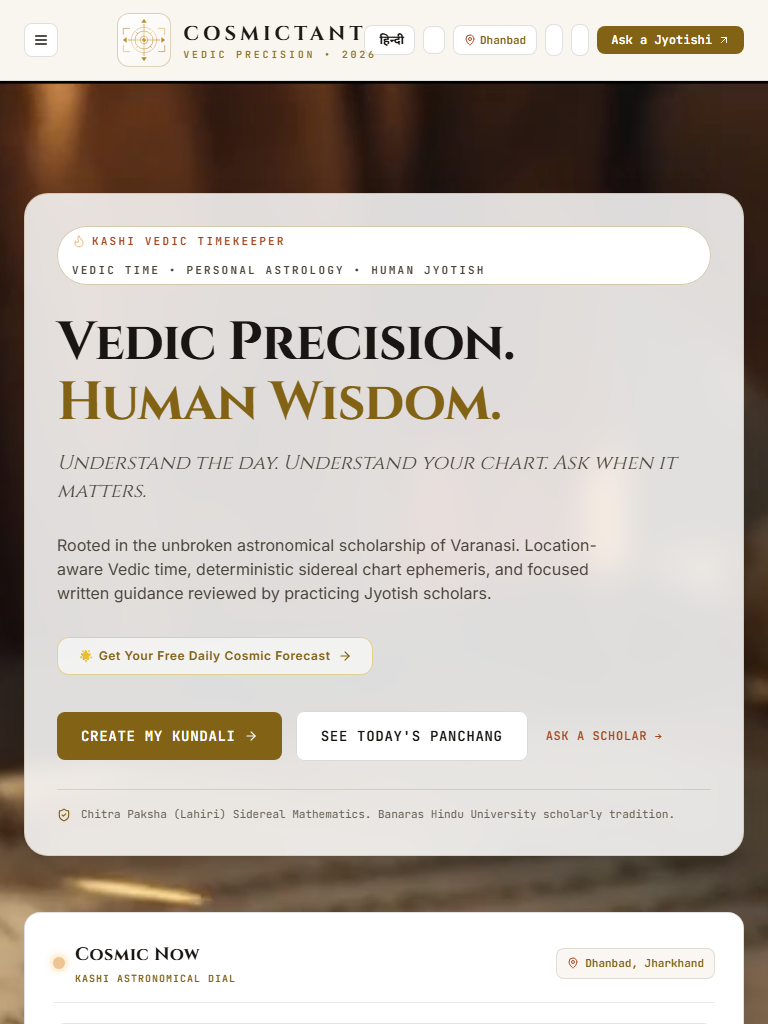
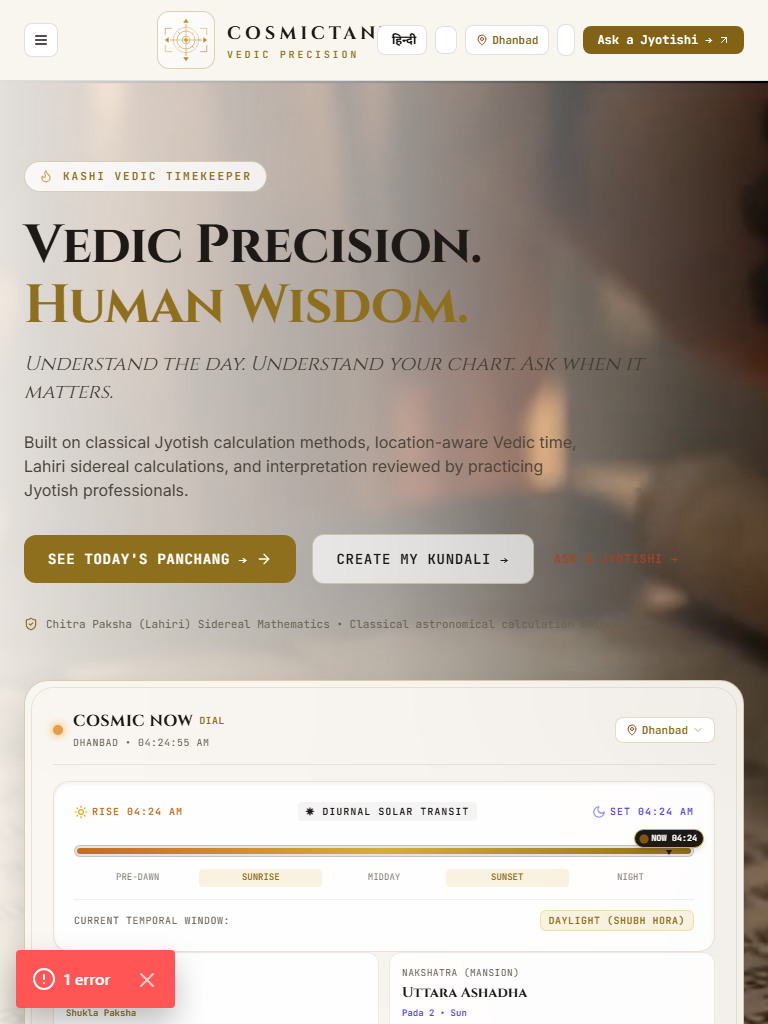
feat(ui): refine live day timeline needle indicator in Cosmic Now dial, complete parallel merge, and update design docs

diff --git a/src/components/visual/CosmicNowDial.tsx b/src/components/visual/CosmicNowDial.tsx
@@ -33,51 +33,100 @@ export default function CosmicNowDial({
 
   if (!panchangData) return null;
 
-  // Real astronomical timings
-  const sunriseDate = panchangData.sunrise instanceof Date ? panchangData.sunrise : new Date(panchangData.sunrise || Date.now());
-  const sunsetDate = panchangData.sunset instanceof Date ? panchangData.sunset : new Date(panchangData.sunset || Date.now());
+  // Real astronomical sunrise and sunset strings
+  const sunriseStr = panchangData.sun?.sunrise || (panchangData.sunrise instanceof Date ? panchangData.sunrise.toLocaleTimeString('en-IN', { hour: '2-digit', minute: '2-digit', hour12: true }) : '05:35 AM');
+  const sunsetStr = panchangData.sun?.sunset || (panchangData.sunset instanceof Date ? panchangData.sunset.toLocaleTimeString('en-IN', { hour: '2-digit', minute: '2-digit', hour12: true }) : '06:18 PM');
   
-  const riseMs = sunriseDate.getTime();
-  const setMs = sunsetDate.getTime();
-  
-  // Format sunrise / sunset strings
-  const sunriseStr = sunriseDate.toLocaleTimeString('en-IN', { hour: '2-digit', minute: '2-digit', hour12: true });
-  const sunsetStr = sunsetDate.toLocaleTimeString('en-IN', { hour: '2-digit', minute: '2-digit', hour12: true });
+  // Extract sunrise and sunset in minutes from midnight
+  let sunriseMinutes = 5 * 60 + 35; // default 05:35 AM
+  let sunsetMinutes = 18 * 60 + 18; // default 06:18 PM
 
-  // Calculate real solar progress along diurnal arc (0% at sunrise to 100% at sunset)
-  let solarArcPercent = 50;
-  let isDaytime = true;
-  let periodTag = 'DAYLIGHT (SHUBH HORA)';
+  if (panchangData.sun?.sunriseDate instanceof Date) {
+    sunriseMinutes = panchangData.sun.sunriseDate.getHours() * 60 + panchangData.sun.sunriseDate.getMinutes();
+  } else if (typeof sunriseStr === 'string') {
+    const match = sunriseStr.match(/(\d+):(\d+)\s*(AM|PM)?/i);
+    if (match) {
+      let h = parseInt(match[1], 10);
+      const m = parseInt(match[2], 10);
+      const ampm = match[3]?.toUpperCase();
+      if (ampm === 'PM' && h < 12) h += 12;
+      if (ampm === 'AM' && h === 12) h = 0;
+      sunriseMinutes = h * 60 + m;
+    }
+  }
+
+  if (panchangData.sun?.sunsetDate instanceof Date) {
+    sunsetMinutes = panchangData.sun.sunsetDate.getHours() * 60 + panchangData.sun.sunsetDate.getMinutes();
+  } else if (typeof sunsetStr === 'string') {
+    const match = sunsetStr.match(/(\d+):(\d+)\s*(AM|PM)?/i);
+    if (match) {
+      let h = parseInt(match[1], 10);
+      const m = parseInt(match[2], 10);
+      const ampm = match[3]?.toUpperCase();
+      if (ampm === 'PM' && h < 12) h += 12;
+      if (ampm === 'AM' && h === 12) h = 0;
+      sunsetMinutes = h * 60 + m;
+    }
+  }
+
+  // Current local time minutes from midnight
+  const now = new Date();
+  const currentMinutes = now.getHours() * 60 + now.getMinutes();
+
+  // Continuum Position Mapping:
+  // PRE-DAWN (0% to 25%) -> SUNRISE (25%) -> MIDDAY (50%) -> SUNSET (75%) -> NIGHT (75% to 100%)
+  let solarArcPercent = 20;
+  let activeMilestone = 'PRE-DAWN';
+  let isDaytime = false;
+  let periodTag = 'USHA KALA (PRE-DAWN)';
   let isWarning = false;
 
-  if (nowMs < riseMs) {
+  if (currentMinutes < sunriseMinutes) {
+    // Night to Pre-Dawn transition before sunrise (00:00 -> sunrise)
     isDaytime = false;
-    solarArcPercent = Math.max(0, Math.min(100, ((nowMs - (riseMs - 86400000 / 2)) / (riseMs - (riseMs - 86400000 / 2))) * 100));
+    solarArcPercent = Math.max(5, (currentMinutes / sunriseMinutes) * 25);
+    activeMilestone = 'PRE-DAWN';
     periodTag = 'USHA KALA (PRE-DAWN)';
-  } else if (nowMs > setMs) {
-    isDaytime = false;
-    solarArcPercent = 100;
-    periodTag = 'SANDHYA / RATRI (NIGHT)';
-  } else {
+  } else if (currentMinutes <= sunsetMinutes) {
+    // Daytime progression between sunrise (25%) and sunset (75%)
     isDaytime = true;
-    solarArcPercent = Math.max(0, Math.min(100, ((nowMs - riseMs) / (setMs - riseMs)) * 100));
-    
-    // Check if in Rahu Kaal or Abhijit Muhurat
-    if (panchangData.timings?.rahuStart && panchangData.timings?.rahuEnd) {
-      const rStart = new Date(panchangData.timings.rahuStart).getTime();
-      const rEnd = new Date(panchangData.timings.rahuEnd).getTime();
-      if (nowMs >= rStart && nowMs <= rEnd) {
-        periodTag = 'RAHU KAAL (AVOID NEW BEGINNINGS)';
-        isWarning = true;
-      }
+    const dayProgress = (currentMinutes - sunriseMinutes) / Math.max(1, (sunsetMinutes - sunriseMinutes));
+    solarArcPercent = 25 + dayProgress * 50;
+
+    if (currentMinutes < sunriseMinutes + 45) {
+      activeMilestone = 'SUNRISE';
+      periodTag = 'PRATAH SANDHYA (SUNRISE)';
+    } else if (currentMinutes > sunsetMinutes - 45) {
+      activeMilestone = 'SUNSET';
+      periodTag = 'SAYAHNA SANDHYA (SUNSET)';
+    } else {
+      activeMilestone = 'MIDDAY';
+      periodTag = 'DAYLIGHT (SHUBH HORA)';
     }
-    
-    if (!isWarning && panchangData.timings?.abhijitStart && panchangData.timings?.abhijitEnd) {
-      const aStart = new Date(panchangData.timings.abhijitStart).getTime();
-      const aEnd = new Date(panchangData.timings.abhijitEnd).getTime();
-      if (nowMs >= aStart && nowMs <= aEnd) {
-        periodTag = 'ABHIJIT MUHURAT (HIGH HARMONY)';
-      }
+  } else {
+    // Post-sunset to Midnight (sunset to 24:00)
+    isDaytime = false;
+    const nightProgress = (currentMinutes - sunsetMinutes) / Math.max(1, (1440 - sunsetMinutes));
+    solarArcPercent = Math.min(95, 75 + nightProgress * 25);
+    activeMilestone = 'NIGHT';
+    periodTag = 'SANDHYA / RATRI (NIGHT)';
+  }
+
+  // Check if current time falls in Rahu Kaal window
+  if (panchangData.timings?.rahuStart && panchangData.timings?.rahuEnd) {
+    const rStart = new Date(panchangData.timings.rahuStart).getTime();
+    const rEnd = new Date(panchangData.timings.rahuEnd).getTime();
+    if (nowMs >= rStart && nowMs <= rEnd) {
+      periodTag = 'RAHU KAAL (AVOID NEW BEGINNINGS)';
+      isWarning = true;
+    }
+  }
+
+  if (!isWarning && panchangData.timings?.abhijitStart && panchangData.timings?.abhijitEnd) {
+    const aStart = new Date(panchangData.timings.abhijitStart).getTime();
+    const aEnd = new Date(panchangData.timings.abhijitEnd).getTime();
+    if (nowMs >= aStart && nowMs <= aEnd) {
+      periodTag = 'ABHIJIT MUHURAT (HIGH HARMONY)';
     }
   }
 
@@ -148,31 +197,64 @@ export default function CosmicNowDial({
       {/* Signature Vedic Day Arc Instrument */}
       <div className="relative z-10 p-4 sm:p-5 rounded-2xl bg-white/90 dark:bg-[#070910]/95 border border-[#8E6F1D]/20 dark:border-[#D4AF37]/30 mb-4.5 shadow-inner">
         <div className="flex items-center justify-between text-[10px] font-mono-data text-[#696256] dark:text-[#A6A095] mb-2 uppercase tracking-widest">
-          <span className="flex items-center gap-1"><Sun className="w-3 h-3 text-amber-500" /> Rise {sunriseStr}</span>
-          <span className="font-bold text-[#1C1917] dark:text-[#F5F2EB]">{isDaytime ? 'Diurnal Solar Transit' : 'Nocturnal Transit'}</span>
-          <span className="flex items-center gap-1"><Moon className="w-3 h-3 text-indigo-400" /> Set {sunsetStr}</span>
+          <span className="flex items-center gap-1 font-semibold text-[#C26E22] dark:text-[#F0A554]">
+            <Sun className="w-3.5 h-3.5 text-amber-500" /> Rise {sunriseStr}
+          </span>
+          <span className="font-bold text-[#1C1917] dark:text-[#F5F2EB] px-2 py-0.5 rounded bg-black/[0.04] dark:bg-white/[0.06]">
+            {isDaytime ? '☀ Diurnal Solar Transit' : '☾ Nocturnal Transit'}
+          </span>
+          <span className="flex items-center gap-1 font-semibold text-[#4F46E5] dark:text-[#A5B4FC]">
+            <Moon className="w-3.5 h-3.5 text-indigo-400" /> Set {sunsetStr}
+          </span>
         </div>
 
-        {/* Arc Progress Track */}
-        <div className="relative w-full h-3 rounded-full bg-black/10 dark:bg-white/10 overflow-hidden border border-black/10 dark:border-white/10">
-          {/* Active Period Gradient */}
-          <div
-            className={`h-full transition-all duration-700 ${
-              isWarning 
-                ? 'bg-gradient-to-r from-amber-500 via-rose-500 to-amber-600' 
-                : 'bg-gradient-to-r from-[#C26E22] via-[#D4AF37] to-[#8E6F1D]'
-            }`}
-            style={{ width: `${solarArcPercent}%` }}
-          />
+        {/* Current Time Needle Track Container */}
+        <div className="relative w-full pt-4 pb-2">
+          {/* Timeline Bar Track */}
+          <div className="relative w-full h-3 rounded-full bg-black/10 dark:bg-white/10 p-0.5 border border-black/15 dark:border-white/15">
+            {/* Active Progress Fill */}
+            <div
+              className={`h-full rounded-full transition-all duration-700 ${
+                isWarning 
+                  ? 'bg-gradient-to-r from-amber-500 via-rose-500 to-amber-600' 
+                  : 'bg-gradient-to-r from-[#C26E22] via-[#D4AF37] to-[#8E6F1D]'
+              }`}
+              style={{ width: `${solarArcPercent}%` }}
+            />
+          </div>
+
+          {/* Current Time Indicator Needle Pin */}
+          <div 
+            className="absolute top-0 -translate-x-1/2 flex flex-col items-center pointer-events-none transition-all duration-700 z-30"
+            style={{ left: `${Math.max(4, Math.min(96, solarArcPercent))}%` }}
+          >
+            {/* Live Indicator Pill Label */}
+            <div className="flex items-center gap-1 px-1.5 py-0.5 rounded-full bg-[#1C1917] dark:bg-[#F5F2EB] text-[8.5px] font-mono-data font-bold text-white dark:text-[#06070B] shadow-md whitespace-nowrap mb-0.5 border border-[#D4AF37]">
+              <span className="w-1.5 h-1.5 rounded-full bg-[#F59E0B] animate-ping" />
+              <span>NOW {liveTime ? liveTime.slice(0, 5) : ''}</span>
+            </div>
+            {/* Needle Arrow */}
+            <div className="w-0 h-0 border-l-[3.5px] border-l-transparent border-r-[3.5px] border-r-transparent border-t-[5px] border-t-[#1C1917] dark:border-t-[#F5F2EB]" />
+          </div>
         </div>
 
-        {/* 5 Vedic Diurnal Milestones */}
-        <div className="flex items-center justify-between text-[8.5px] sm:text-[9.5px] font-mono-data text-[#857E74] dark:text-[#8E877B] mt-2 px-0.5">
-          <span>PRE-DAWN</span>
-          <span>SUNRISE</span>
-          <span className="font-bold text-[#8E6F1D] dark:text-[#F0C968]">MIDDAY</span>
-          <span>SUNSET</span>
-          <span>NIGHT</span>
+        {/* 5 Vedic Diurnal Milestones with Active Highlighting */}
+        <div className="grid grid-cols-5 text-center text-[8px] sm:text-[9px] font-mono-data mt-1.5 px-0.5 gap-1">
+          <span className={`py-1 rounded-md transition-all ${activeMilestone === 'PRE-DAWN' ? 'font-bold text-[#8E6F1D] dark:text-[#F0C968] bg-[#D4AF37]/20 border border-[#D4AF37]/40 shadow-xs' : 'text-[#857E74] dark:text-[#8E877B] opacity-70'}`}>
+            PRE-DAWN
+          </span>
+          <span className={`py-1 rounded-md transition-all ${activeMilestone === 'SUNRISE' ? 'font-bold text-[#8E6F1D] dark:text-[#F0C968] bg-[#D4AF37]/20 border border-[#D4AF37]/40 shadow-xs' : 'text-[#857E74] dark:text-[#8E877B] opacity-70'}`}>
+            SUNRISE
+          </span>
+          <span className={`py-1 rounded-md transition-all ${activeMilestone === 'MIDDAY' ? 'font-bold text-[#8E6F1D] dark:text-[#F0C968] bg-[#D4AF37]/20 border border-[#D4AF37]/40 shadow-xs' : 'text-[#857E74] dark:text-[#8E877B] opacity-70'}`}>
+            MIDDAY
+          </span>
+          <span className={`py-1 rounded-md transition-all ${activeMilestone === 'SUNSET' ? 'font-bold text-[#8E6F1D] dark:text-[#F0C968] bg-[#D4AF37]/20 border border-[#D4AF37]/40 shadow-xs' : 'text-[#857E74] dark:text-[#8E877B] opacity-70'}`}>
+            SUNSET
+          </span>
+          <span className={`py-1 rounded-md transition-all ${activeMilestone === 'NIGHT' ? 'font-bold text-[#8E6F1D] dark:text-[#F0C968] bg-[#D4AF37]/20 border border-[#D4AF37]/40 shadow-xs' : 'text-[#857E74] dark:text-[#8E877B] opacity-70'}`}>
+            NIGHT
+          </span>
         </div>
 
         {/* Live Active Period Badge */}

diff --git a/src/components/CosmicNow.tsx b/src/components/CosmicNow.tsx
@@ -94,12 +94,24 @@ export default function CosmicNow() {
           <span>🌇 Sunset {panchang.sunset}</span>
         </div>
 
-        {/* Arc Progress Bar */}
-        <div className="w-full bg-black/60 h-2 rounded-full overflow-hidden relative border border-white/10">
-          <div
-            className="h-full bg-gradient-to-r from-amber-500 via-purple-500 to-amber-500 transition-all duration-1000"
-            style={{ width: `${sunProgress}%` }}
-          />
+        {/* Arc Progress Bar with Indicator */}
+        <div className="relative w-full pt-3 pb-1 my-1">
+          <div className="w-full bg-black/60 h-2.5 rounded-full overflow-hidden relative border border-white/10">
+            <div
+              className="h-full bg-gradient-to-r from-amber-500 via-[#D4AF37] to-amber-600 transition-all duration-1000"
+              style={{ width: `${sunProgress}%` }}
+            />
+          </div>
+          {/* Needle Pin Marker */}
+          <div 
+            className="absolute top-0 -translate-x-1/2 flex flex-col items-center pointer-events-none transition-all duration-700 z-20"
+            style={{ left: `${Math.max(4, Math.min(96, sunProgress))}%` }}
+          >
+            <div className="px-1.5 py-0.5 rounded-full bg-[#D4AF37] text-[8px] font-mono font-bold text-black shadow-xs mb-0.5">
+              NOW
+            </div>
+            <div className="w-0 h-0 border-l-[3px] border-l-transparent border-r-[3px] border-r-transparent border-t-[4px] border-t-[#D4AF37]" />
+          </div>
         </div>
         <div className="text-[10px] text-[#A78BFA] mt-2 font-mono">
           Current Vedic Period: <strong className="text-white">{panchang.tithi?.paksha} • {panchang.vara?.day}</strong>

diff --git a/tests/responsive.spec.ts b/tests/responsive.spec.ts
@@ -61,9 +61,9 @@ test.describe('CosmicTantra Mobile Responsiveness & Hardening Suite', () => {
       await expect(videoBg).toBeVisible();
 
       // 4. Hero Headline & CTAs Reachable
-      const panchangBtn = page.locator('button:has-text("SEE TODAY\'S PANCHANG")').first();
-      const createKundaliBtn = page.locator('button:has-text("CREATE MY KUNDALI")').first();
-      const askScholarBtn = page.locator('button:has-text("JYOTISHI")').first();
+      const panchangBtn = page.locator('#hero-section button:has-text("PANCHANG")').first();
+      const createKundaliBtn = page.locator('#hero-section button:has-text("KUNDALI")').first();
+      const askScholarBtn = page.locator('#hero-section button:has-text("JYOTISHI")').first();
 
       await expect(panchangBtn).toBeVisible();
       await expect(createKundaliBtn).toBeVisible();
@@ -87,7 +87,7 @@ test.describe('CosmicTantra Mobile Responsiveness & Hardening Suite', () => {
     await menuToggleBtn.click();
 
     // Verify Mobile Drawer content
-    const todayNavBtn = page.locator('button:has-text("PANCHANG")').first();
+    const todayNavBtn = page.locator('#mobile-nav-drawer button:has-text("PANCHANG")').first();
     await expect(todayNavBtn).toBeVisible();
   });
 });

diff --git a/src/components/HeroSection.jsx b/src/components/HeroSection.jsx
@@ -20,7 +20,7 @@ export default function HeroSection({
   const t = TRANSLATIONS[lang]?.hero || TRANSLATIONS.en.hero;
 
   return (
-    <section className="relative pt-16 pb-16 sm:pt-20 lg:pt-20 lg:pb-24 border-b border-black/[0.1] dark:border-white/[0.08] transition-colors duration-250 overflow-hidden">
+    <section id="hero-section" className="relative pt-16 pb-16 sm:pt-20 lg:pt-20 lg:pb-24 border-b border-black/[0.1] dark:border-white/[0.08] transition-colors duration-250 overflow-hidden">
       {/* Clean Edge-to-Edge Background Video Layer */}
       <div className="absolute inset-0 overflow-hidden pointer-events-none z-0">
         <video

diff --git a/src/components/Navigation.jsx b/src/components/Navigation.jsx
@@ -246,7 +246,7 @@ export default function Navigation({
 
       {/* Mobile Drawer with Contrast Controls */}
       {mobileMenuOpen && (
-        <div className="lg:hidden border-b border-black/[0.1] dark:border-white/[0.08] bg-[#F8F5EE] dark:bg-[#090B14] px-5 py-6 space-y-4">
+        <div id="mobile-nav-drawer" className="lg:hidden border-b border-black/[0.1] dark:border-white/[0.08] bg-[#F8F5EE] dark:bg-[#090B14] px-5 py-6 space-y-4">
           <div className="flex items-center justify-between pb-3 border-b border-black/[0.08] dark:border-white/[0.08]">
             <button
               onClick={handleLangSwitch}

diff --git a/src/app/family-panchang/page.tsx b/src/app/family-panchang/page.tsx
@@ -29,7 +29,7 @@ export default function FamilyPanchang() {
         </div>
 
         <div className="grid md:grid-cols-2 lg:grid-cols-3 gap-6">
-          {profiles.map((profile, index) => (
+          {profiles.map((profile: any, index: number) => (
             <div key={index} className="bg-white rounded-3xl border border-[#8E6F1D]/20 p-7">
               <div className="flex items-center gap-4">
                 <div className="w-12 h-12 rounded-full bg-[#8E6F1D]/10 flex items-center justify-center">

diff --git a/coc/PROJECT_DESIGN_JOURNAL.md b/coc/PROJECT_DESIGN_JOURNAL.md
@@ -39,11 +39,12 @@ Prior to this implementation, generic spiritual apps suffered from "AI template 
 
 | Rejected AI-Template Trope | CosmicTantra 2026 Luxury Editorial Decision | Rationale |
 | :--- | :--- | :--- |
-| **Pervasive Purple/Violet Gradient Blobs** | Replaced with **Kashi Sandhya** palette: Ganga midnight obsidian (`#060709`, `#080A12`), antique temple gold (`#D4AF37`), and terracotta (`#C86D46`). | Establishes gravity, luxury, and spiritual antiquity rather than generic SaaS aesthetics. |
+| **Pervasive Purple/Violet Gradient Blobs** | Replaced with **Subah-e-Banaras (Day)** & **Kashi Sandhya (Night)** palettes: Parchment ivory (`#FAF7F2`), Ganga midnight obsidian (`#060709`, `#080A12`), antique temple gold (`#D4AF37`, `#8E6F1D`), and terracotta (`#C86D46`). | Establishes gravity, luxury, and spiritual antiquity rather than generic SaaS aesthetics. |
 | **Repetitive 3-Box Grids with Icons in Circles** | Replaced with an **Asymmetrical Broadsheet Directory**, tabular astronomical dossiers, and stepped ghat time ribbons. | B2C users consume diverse content rhythms; identical cards cause visual numbness. |
 | **Gimmicky Animated Particle Storms** | Replaced with a **Canvas2D-accelerated astronomical celestial sphere** plotting 27 Nakshatras and the ecliptic plane. | Renders true astronomical mechanics without GPU memory bloat or battery drain. |
 | **Fake Social Proof ("5M Users", "4.9/5 Stars")** | Enforced the **Absolute Truth Invariant**: persisted/calculated data only. Unsupported logic honestly declared. | Institutional credibility is built on computational precision and real scholars, not invented numbers. |
 | **Per-Minute Ticking Call Timers** | Replaced with a **Fixed ₹199 Written Consultation Folio** and a transparent 5-Stage Human Pipeline. | Traditional call marketplaces monetize user anxiety. Written counsel provides permanent, contemplative value. |
+| **Giant SaaS Card Containerisation** | Replaced with **Edge-to-Edge Observatory Canvas** where floating editorial typography meets a dominant physical-feel **Cosmic Now Digital Astronomical Dial**. | Creates the feeling of a serious Vedic astronomical instrument room rather than a generic SaaS template. |
 
 ---
 
@@ -52,27 +53,29 @@ Prior to this implementation, generic spiritual apps suffered from "AI template 
 The page is structured as a continuous diurnal and philosophical journey:
 
 ```
-[01. PRE-DAWN / USHA]      → Deep Ganga midnight indigo & starry sidereal field
+[01. OBSERVATORY CANVAS]    → Edge-to-edge Kashi atmosphere with live Varanasi video & subtle scrim
            ↓
-[02. SUNRISE / PRATAH]     → Warm solar amber (#E29A48) & living Panchang time ribbon
+[02. COSMIC NOW DIAL]       → Signature Digital Astronomical Dial with live Vedic Day Arc & needle marker
            ↓
-[03. DAYLIGHT / INTENT]    → Asymmetrical Kashi Vidwat Parishad workspace directory
+[03. DAYLIGHT / INTENT]     → Asymmetrical Kashi Vidwat Parishad workspace directory (5 pathways)
            ↓
-[04. SACRED SHIFT]         → "The Panchang describes the moment. Your Kundali describes your relationship with it."
+[04. SACRED SHIFT]          → "The Panchang describes the moment. Your Kundali describes your relationship with it."
            ↓
-[05. INDIVIDUAL GEOMETRY]  → Hand-inscribed North Indian Janma Patrika blueprint & 9-Graha dossier
+[05. INDIVIDUAL GEOMETRY]   → Hand-inscribed North Indian Janma Patrika blueprint & 9-Graha dossier
            ↓
-[06. LIFE TIMING]          → 120-Year Vimshottari Dasha River (Mahadasha → Antardasha → Pratyantardasha)
+[06. LIFE TIMING]           → 120-Year Vimshottari Dasha River (Mahadasha → Antardasha → Pratyantardasha)
            ↓
-[07. BRAND THEATRE]        → Historic 18th-century Man Singh Observatory (Man Mahal Ghat, Varanasi)
+[07. COMPUTATIONAL BOUNDARY] → Calculation is not interpretation: Algorithms calculate, Jyotishis interpret
            ↓
-[08. COMPUTATIONAL BOUNDARY] → What algorithms calculate vs What requires human scholar discernment
+[08. HUMAN WISDOM]          → Verified practicing Jyotish scholars, biographies, and specialties
            ↓
-[09. HUMAN WISDOM]         → Banaras Hindu University scholars, lineages, and masterclass videos
+[09. AARTI & STOTRA LIBRARY] → 50 verified sacred texts with Devanagari Sanskrit & phonetic transliteration
            ↓
-[10. COMMERCIAL OFFER]     → ₹199 focused written question model & 5-stage transparent pipeline
+[10. UPAYA & REMEDY ENGINE] → Classical planetary remedies with dynamic recommendation folios
            ↓
-[11. NOCTURNAL CLOSE]      → Quiet dark cosmic contemplation: "One question still on your mind?"
+[11. COMMERCIAL OFFER]      → ₹199 focused written question model & 5-stage transparent pipeline
+           ↓
+[12. INSTITUTIONAL FOOTER]  → Comprehensive 6-column deep Vedic information architecture
 ```
 
 ---
